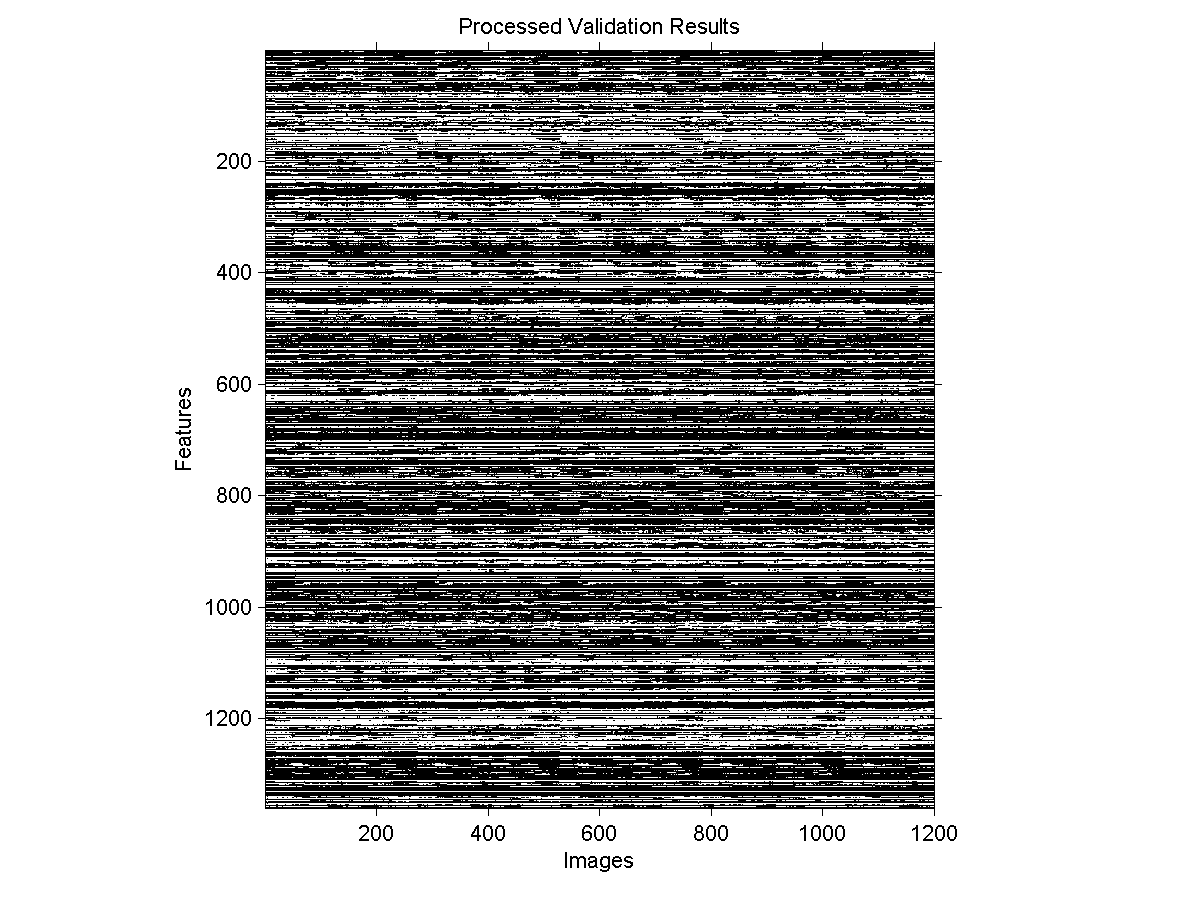
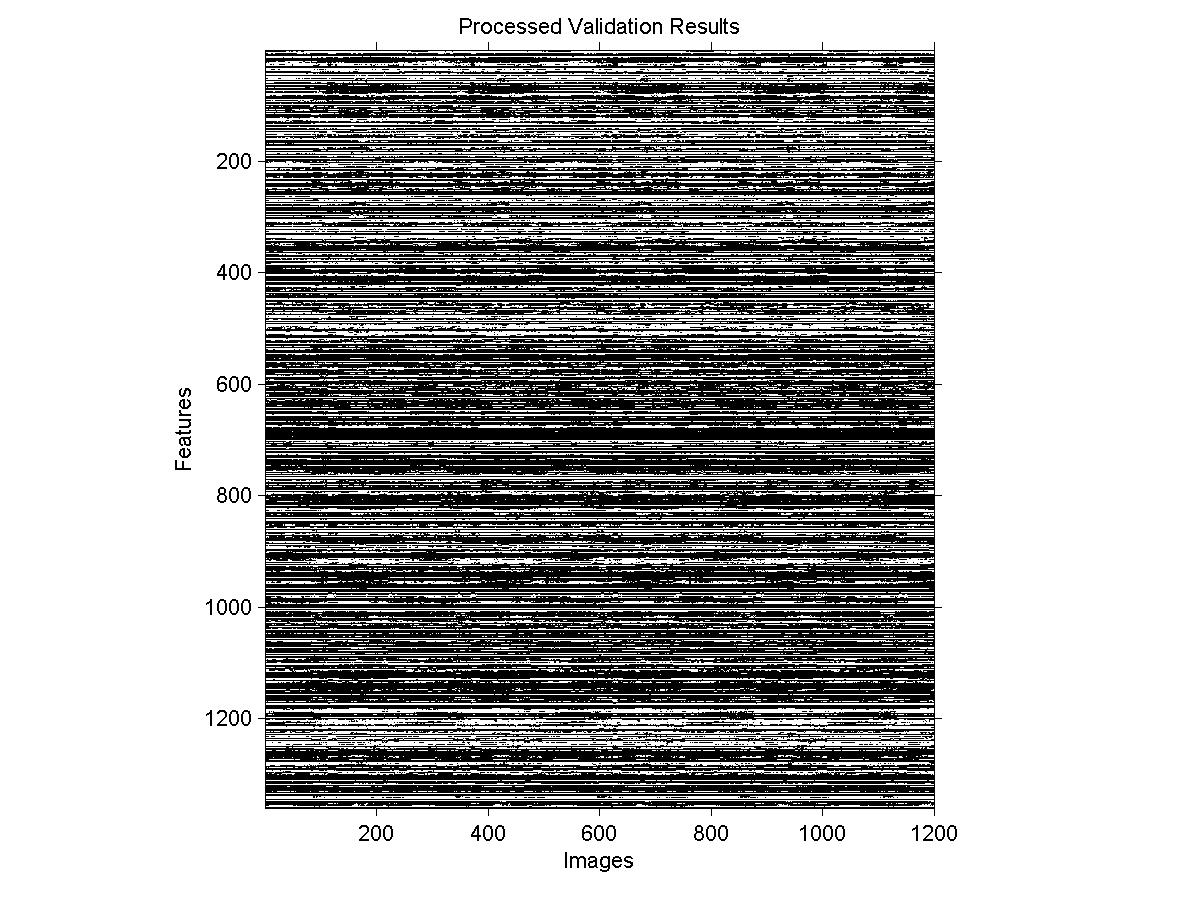
- finished my feature identification network + images
- added Braz's stuff to run and tweeked a bit with it

Changed region(s): [[0.2157, 0.0622, 0.801, 0.9012]]

diff --git a/save_images.m b/save_images.m
@@ -1,66 +1,26 @@
-function save_images( folder, val_perf , val_proc_perf, val_results, val_proc_results, test_results, test_proc_results)
+function save_images( folder, val_results, val_proc_results, test_results, test_proc_results)
 
 %Saves the inputs into the specified folder as .png images
 
-data = [val_proc_perf,0; 0,val_perf; val_proc_perf,val_perf];
-hDataSeries = barh(data ,'stacked');
-set(gca, 'xlim',[0,val_proc_perf+val_perf+5], 'box','off');
-
-%{
-sumTotals = sum(data,2);
-sumTotals = sumTotals(~isnan(sumTotals));
-labels = arrayfun(@num2str,sumTotals,'uniform',false);
-hText = text(1:size(data,1), sumTotals, labels);
-set(hText, 'VerticalAlignment','bottom', 'FontSize',8, 'Color','b');
-hPatches = get(hDataSeries,'Children');
-try hPatches = cell2mat(hPatches); catch, end  % no need in case of single patch
-xData = get(hPatches(1),'XData');
-xPos = xData(end,:) + 0.01;
-yData = get(hPatches,'YData');
-try yData = cell2mat(yData); catch, end
-barYs = yData(2:4:end,:);
-barValues = diff([zeros(1,size(barYs,2)); barYs]);
-barValues(bsxfun(@minus,barValues,sum(barValues))==0) = 0;  % no sub-total for bars having only a single sub-total
-yPos = yData(1:4:end,:) + barValues/2;
-xPos = xPos(ones(1,size(yPos,1)),:);
-xPos(barValues==0)      = [];  % remove entries for empty bars patches
-yPos(barValues==0)      = [];  % remove entries for empty bars patches
-barValues(barValues==0) = [];  % remove entries for empty bars patches
-labels = strcat(' ', arrayfun(@num2str,barValues(:),'uniform',false));
-hText = text(xPos(:), yPos(:), labels);
-set(hText, 'FontSize',8);
-%}
-hLegend = legend(hDataSeries, {'performance of processed results','performance of unprocessed results'});
-set(hLegend, 'FontSize',8);
-
-saveas(gcf,strcat(folder,'performances.png'));
-
-%[num_features, num_images] = size(val_results);
 iptsetpref('ImshowAxesVisible', 'on');
-%'Images', [0 num_images], 'Features', [0 num_features]
 imshow(val_results);
 title('Validation Results')
 xlabel('Images')
 ylabel('Features')
-%set(gca,'XTick',[0:num_images] );
-%set(gca,'XTick',[0:num_features] );
 saveas(gcf,strcat(folder,'validation_results.png'));
 
-%[num_features, num_images] = size(val_proc_results);
 imshow(val_proc_results);
 title('Processed Validation Results')
 xlabel('Images')
 ylabel('Features')
 saveas(gcf,strcat(folder,'validation_processed_results.png'));
 
-%[num_features, num_images] = size(test_results);
 imshow(test_results);
 title('Test Results')
 xlabel('Images')
 ylabel('Features')
 saveas(gcf,strcat(folder,'test_results.png'));
 
-%[num_features, num_images] = size(test_proc_results);
 imshow(test_proc_results);
 title('Processed Test Results')
 xlabel('Images')

diff --git a/analyse_image_results.m b/analyse_image_results.m
@@ -1,0 +1,48 @@
+
+%%%%%%
+% GrayScale results
+%%%%%%
+
+load('results/grayscale/validation_results.mat');
+load('results/grayscale/testing_results.mat');
+load('dataset\grayscale\validation_output.mat');
+load('results/grayscale/binary_validation_results.mat');
+load('results/grayscale/binary_testing_results.mat');
+load('dataset\grayscale\bin_validation_output.mat');
+
+save_images('results/grayscale/', val_results, val_proc_results,test_results, test_proc_results);
+save_images('results/grayscale/binary_', bin_val_results, bin_val_proc_results, binary_test_results, binary_proc_results);
+
+%C = intersect(validation_output, val_proc_results);
+%bin_C = intersect(bin_validation_output, bin_val_proc_results);
+
+figure ;
+barh([val_proc_perf, val_perf; bin_val_proc_perf, bin_val_perf]);
+title('Performance of Validation Results');
+legend('Processed results','Unprocessed results');
+ylabel(sprintf('Validation Results\n\nNumeric                                                  Binary'));
+xlabel('Performance');
+saveas(gcf,'results/grayscale/performances.png');
+close all;
+
+figure ;
+correct = find(validation_output == val_results);
+correct_proc = find(validation_output == val_proc_results);
+correct_bin = find(bin_validation_output == bin_val_results);
+correct_bin_proc = find(bin_validation_output == bin_val_proc_results);
+barh([length(correct) , length(correct_bin) ; length(correct_proc), length(correct_bin_proc)]);
+title('Comparison of Validation Results');
+legend('Numeric results','Binary results');
+ylabel(sprintf('Processed Validation Results\n\nUnprocessed                                                  Processed'));
+xlabel('Number of similarities with expected output');
+saveas(gcf,'results/grayscale/similarities.png');
+close all;
+
+
+
+%%%%%%
+% RGB results
+%%%%%%
+%{
+
+%}

diff --git a/grayscale_sim.m b/grayscale_sim.m
@@ -29,16 +29,14 @@ disp('-----------------------------------------------------');
 
 load dataset/grayscale/num_features;
 load dataset/grayscale/training_set;
-load dataset/grayscale/training_output;
-training_output(training_output > 0) = 1;
-net = train_feature_network(num_features, training_set, training_output);
+load dataset/grayscale/bin_training_output;
+net = train_feature_network(num_features, training_set, bin_training_output);
 clear training_set;
 clear training_output;
 
 load dataset/grayscale/validation_set;
-load dataset/grayscale/validation_output;
-validation_output(validation_output > 0) = 1;
-[bin_val_proc_results, bin_val_proc_perf, bin_val_results, bin_val_perf] = validate_feature_network(net, validation_output, validation_set); 
+load dataset/grayscale/bin_validation_output;
+[bin_val_proc_results, bin_val_proc_perf, bin_val_results, bin_val_perf] = validate_feature_network(net, bin_validation_output, validation_set); 
 save('results/grayscale/binary_validation_results.mat', 'bin_val_proc_results', 'bin_val_proc_perf', 'bin_val_results', 'bin_val_perf');
 
 load dataset/grayscale/test_input;

diff --git a/rgb_sim.m b/rgb_sim.m
@@ -29,16 +29,14 @@ disp('-----------------------------------------------------');
 
 load dataset/rgb/num_features;
 load dataset/rgb/training_set;
-load dataset/rgb/training_output;
-training_output(training_output > 0) = 1;
-net = train_feature_network(num_features, training_set, training_output);
+load dataset/rgb/bin_training_output;
+net = train_feature_network(num_features, training_set, bin_training_output);
 clear training_set;
 clear training_output;
 
 load dataset/rgb/validation_set;
-load dataset/rgb/validation_output;
-validation_output(validation_output > 0) = 1;
-[bin_val_proc_results, bin_val_proc_perf, bin_val_results, bin_val_perf] = validate_feature_network(net, validation_output, validation_set); 
+load dataset/rgb/bin_validation_output;
+[bin_val_proc_results, bin_val_proc_perf, bin_val_results, bin_val_perf] = validate_feature_network(net, bin_validation_output, validation_set); 
 save('results/rgb/binary_validation_results.mat', 'bin_val_proc_results', 'bin_val_proc_perf', 'bin_val_results', 'bin_val_perf');
 
 load dataset/rgb/test_input;

diff --git a/prep_objects_data.m b/prep_objects_data.m
@@ -1,0 +1,30 @@
+
+
+input = load('dataset/memorability/desired_output.mat');
+target = load('dataset/memorability/mem_maps_predicted.mat');
+
+target = target.mem_maps_predicted * 100;
+
+%Scaling
+minValue = min(target);
+target = target - minValue;
+maxValue = max(target);
+target = (100/maxValue) * target; 
+
+target(target < 50) = 0;
+target(target >= 50) = 1;
+
+limitedInput = input.desired_output(:,1112:2222); %Fix
+clear input;
+
+disp('Training...');
+net = train_mem_network(limitedInput, target');
+disp('Trained!');
+
+[result] = classify_mem_network(net, limitedInput);
+
+%remove negative values and over positive values
+result(result < 0) = 0;
+result(result > 1) = 1;
+
+plot(result)

diff --git a/prep_grayscale_datasets.m b/prep_grayscale_datasets.m
@@ -99,5 +99,19 @@ test_input = test_input(:, 1:num_samples);
 save('dataset/grayscale/test_input.mat', 'test_input', '-v7.3');
 clear test_input;
 
+
+%%%%%%
+% Generate the corresponding binary outputs for the validation and training
+% datasets.
+%%%%%%
+load('dataset/grayscale/validation_output.mat')
+validation_output(validation_output > 0) = 1;
+bin_validation_output = validation_output;
+save('dataset/grayscale/bin_validation_output.mat','bin_validation_output', '-v7.3')
+load dataset/grayscale/training_output;
+training_output(training_output > 0) = 1;
+bin_training_output = training_output;
+save('dataset/grayscale/bin_training_output.mat','bin_training_output', '-v7.3')
+
 clear all;
 

diff --git a/prep_rgb_datasets.m b/prep_rgb_datasets.m
@@ -85,5 +85,20 @@ test_input = test_input(:, 1:num_samples);
 save('dataset/rgb/test_input.mat', 'test_input', '-v7.3');
 clear test_input;
 
+
+%%%%%%
+% Generate the corresponding binary outputs for the validation and training
+% datasets.
+%%%%%%
+load('dataset/rgb/validation_output.mat')
+validation_output(validation_output > 0) = 1;
+bin_validation_output = validation_output;
+save('dataset/rgb/bin_validation_output.mat','bin_validation_output', '-v7.3')
+load dataset/rgb/training_output;
+training_output(training_output > 0) = 1;
+bin_training_output = training_output;
+save('dataset/rgb/bin_training_output.mat','bin_training_output', '-v7.3')
+
+
 clear all;
 

diff --git a/run.m b/run.m
@@ -19,7 +19,17 @@ disp('---------------------------------');
 rgb_sim;
 %}
 
-analyse_results;
+disp('------------------------------------');
+disp('Analysing results of all simulations');
+disp('------------------------------------');
+analyse_image_results;
+
+
+disp('--------------------------------------------');
+disp('Feature Memorability training and simulation');
+disp('--------------------------------------------');
+prep_objects_data;
+
 
 disp(' ');
 disp('Finished!');

diff --git a/train_mem_network.m b/train_mem_network.m
@@ -1,0 +1,14 @@
+function [trained_net] = train_mem_network(input, target)
+
+    [num_features, num_images] = size(input);
+    net = fitnet(ceil(log2(num_features)));
+    
+    %net = configure(net, input, target);
+    
+    net.trainParam.max_fail = 3000;
+    net.trainParam.epochs = 10000;
+    net.trainParam.showWindow = false;
+    
+    trained_net = train(net, input, target, 'useGPU', 'yes');
+end
+

diff --git a/classify_mem_network.m b/classify_mem_network.m
@@ -1,0 +1,5 @@
+function [result] = classify_mem_network(net, input)
+
+    result = net(input);
+ 
+end
